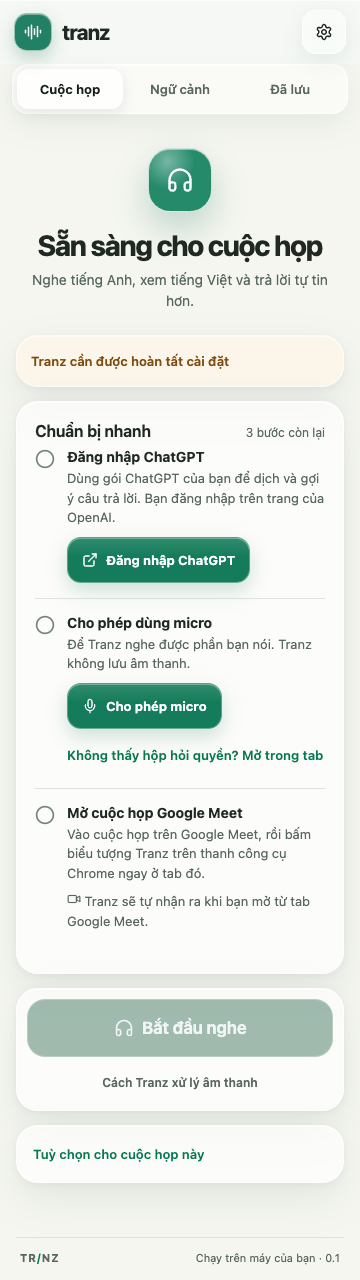
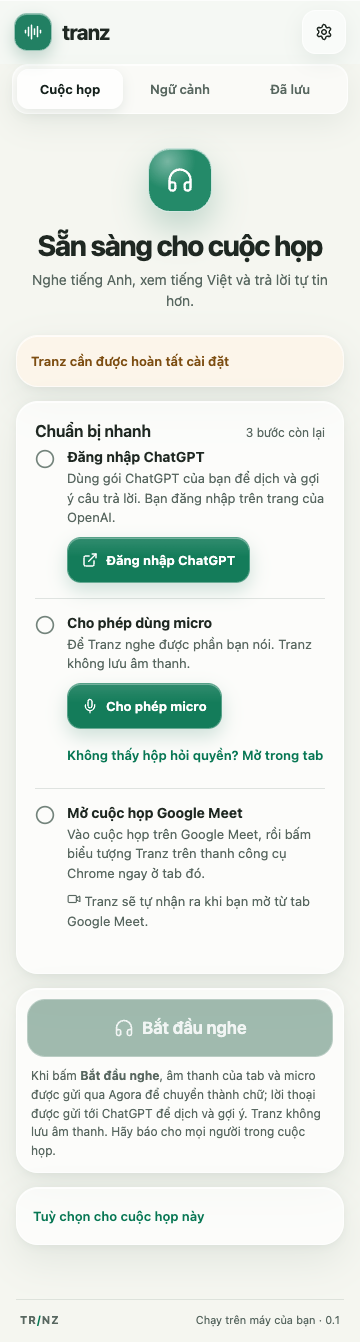
fix: keep the data-flow disclosure visible
Pressing "Bắt đầu nghe" is the consent (PR-004), so the explanation of
where tab and microphone audio go must not sit inside a collapsed
disclosure. The UI harness now checks it is visible and can run on
another port (TRANZ_VERIFY_PORT) when 4328 is in use.

diff --git a/apps/extension/src/views/Home.tsx b/apps/extension/src/views/Home.tsx
@@ -143,13 +143,11 @@ export function Home({
           {busy === 'start' ? 'Đang kết nối… (khoảng 10 giây)' : 'Bắt đầu nghe'}
         </button>
         {!isExtension && <p className="caption">Bản xem thử giao diện · Mở extension trong Chrome để nghe cuộc họp.</p>}
-        <details className="data-details">
-          <summary>Cách Tranz xử lý âm thanh</summary>
-          <p className="caption consent">
-            Khi bấm <strong>Bắt đầu nghe</strong>, âm thanh của tab và micro được gửi qua Agora để chuyển thành chữ; lời thoại được
-            gửi tới ChatGPT để dịch và gợi ý. Hãy báo cho mọi người trong cuộc họp. Tranz không lưu âm thanh.
-          </p>
-        </details>
+        {/* Pressing the button is the consent (PR-004), so this stays visible rather than collapsed. */}
+        <p className="caption consent">
+          Khi bấm <strong>Bắt đầu nghe</strong>, âm thanh của tab và micro được gửi qua Agora để chuyển thành chữ; lời thoại được gửi
+          tới ChatGPT để dịch và gợi ý. Tranz không lưu âm thanh. Hãy báo cho mọi người trong cuộc họp.
+        </p>
       </section>
 
       <details className="panel options">

diff --git a/apps/extension/src/style.css b/apps/extension/src/style.css
@@ -1518,23 +1518,8 @@ footer {
   border-radius: 14px;
 }
 
-.data-details {
-  margin-top: 7px;
-  text-align: center;
-}
-
-.data-details summary {
-  display: inline-flex;
-  align-items: center;
-  min-height: 36px;
-  padding: 0 8px;
-  color: var(--muted);
-  font-size: 12px;
-}
-
-.data-details p {
-  margin: 0 4px 8px;
-  text-align: left;
+.start-zone .consent {
+  margin: 10px 4px 2px;
 }
 
 .options {

diff --git a/docs/evidence/simple-ui.md b/docs/evidence/simple-ui.md
@@ -10,13 +10,13 @@ Ngày: 2026-09-29, cập nhật giao diện glass ngày 2026-09-30. Branch `feat
 - **Ngữ cảnh không bắt buộc** (mặc định "Cuộc họp nhanh"). Chọn ngữ cảnh và lưu phiên nằm trong "Tuỳ chọn cho cuộc họp này".
 - Cài đặt gọn lại: tài khoản ChatGPT, quyền riêng tư, "Thông tin kỹ thuật" thu gọn.
 - Panel không bao giờ trắng: nếu Tranz trên máy chưa chạy, panel hiện 3 bước khắc phục và nút Thử lại.
-- **Tinh giản glass:** header và điều hướng thành một dock kính mờ; màn hình chính chỉ còn biểu tượng, một lời hứa ngắn, trạng thái chuẩn bị và hành động chính. Chi tiết Agora và luồng dữ liệu được thu gọn nhưng vẫn truy cập được. Điều khiển phiên không bám dính để tránh che lời thoại khi cuộn.
+- **Tinh giản glass:** header và điều hướng thành một dock kính mờ; màn hình chính chỉ còn biểu tượng, một lời hứa ngắn, trạng thái chuẩn bị và hành động chính. Chi tiết cấu hình Agora được thu gọn; đoạn giải thích luồng dữ liệu luôn hiện ngay dưới nút Bắt đầu nghe (bấm nút là đồng ý, nên không được giấu). Điều khiển phiên không bám dính để tránh che lời thoại khi cuộn.
 - Glass có đường viền sáng, blur và độ sâu nhẹ; nội dung dài vẫn dùng nền sáng dễ đọc. Có fallback khi trình duyệt không hỗ trợ blur, `prefers-contrast: more` và `prefers-reduced-motion`.
 
 ## Kiểm chứng
 
 - `npm run verify`: 31/31 test (thêm: tự kết nối chỉ cho đúng origin extension; phiên không cần ngữ cảnh; regex thông báo tiếng Việt).
-- `npm run verify:ui`: 42/42 trên bản build unpacked sau thay đổi glass. Gồm: mở panel là tự kết nối, không có ô mật khẩu; checklist 3 bước; nút Bắt đầu nghe bị khoá đến khi AI, micro và Google Meet đều sẵn sàng; tạo ngữ cảnh; phiên mô phỏng bằng tiếng Việt; đăng nhập ChatGPT ngay từ checklist (với Codex giả lập, trang OpenAI chặn cục bộ); không tràn ngang ở 320–600 px; bàn phím; dialog xoá. Ảnh trong `simple-ui/`.
+- `npm run verify:ui`: 43/43 trên bản build unpacked sau thay đổi glass. Gồm: mở panel là tự kết nối, không có ô mật khẩu; checklist 3 bước; đoạn giải thích luồng dữ liệu hiện ngay dưới nút Bắt đầu nghe (không bị thu gọn); nút Bắt đầu nghe bị khoá đến khi AI, micro và Google Meet đều sẵn sàng; tạo ngữ cảnh; phiên mô phỏng bằng tiếng Việt; đăng nhập ChatGPT ngay từ checklist (với Codex giả lập, trang OpenAI chặn cục bộ); không tràn ngang ở 320–600 px; bàn phím; dialog xoá. Ảnh trong `simple-ui/`.
 - Backend thật của bạn đã khởi động lại với code mới; `/api/pair` từ chối mọi nguồn không phải extension.
 
 ## Giới hạn

diff --git a/DESIGN.md b/DESIGN.md
@@ -281,7 +281,7 @@ The first user review found the English, multi-step interface hard to use. The p
 - is written in Vietnamese (`lang="vi"`); transcript lines, suggested replies and practice phrases stay in English because they are the meeting's language;
 - connects to the local backend automatically; the only sign-in a person sees is ChatGPT;
 - opens on **Sẵn sàng cho cuộc họp**: a three-step checklist (Đăng nhập ChatGPT, Cho phép micro, Mở cuộc họp Google Meet) that collapses to “Mọi thứ đã sẵn sàng”, then one large **Bắt đầu nghe** button;
-- treats pressing **Bắt đầu nghe** as the explicit consent, with a short “Cách Tranz xử lý âm thanh” disclosure directly under the button (the separate consent checkbox was removed);
+- treats pressing **Bắt đầu nghe** as the explicit consent, with the data-flow disclosure always visible directly under the button (never collapsed, because the button press is the consent) (the separate consent checkbox was removed);
 - makes context optional (“Không dùng — Cuộc họp nhanh”) and moves context choice and keeping the session into a collapsed “Tuỳ chọn cho cuộc họp này”;
 - names live actions plainly: Tạm dừng/Tiếp tục, Dừng, Gợi ý câu trả lời, Tóm tắt vừa rồi, “Tôi muốn nói…”, Trả lời câu này; shows times in 24-hour Vietnamese format;
 - puts backend and provider details under a collapsed “Thông tin kỹ thuật” in Cài đặt.
@@ -289,6 +289,6 @@ The first user review found the English, multi-step interface hard to use. The p
 ## Liquid-glass refinement (implemented after user feedback, 2026-09-30)
 
 - The header and three destinations are combined visually into a quiet glass dock; the live controls remain in document flow so they never cover transcript content while scrolling.
-- The home screen uses one product symbol, one short promise, one compact setup card and one primary start action. Technical Agora configuration and the longer data-flow explanation stay available in collapsed disclosures.
+- The home screen uses one product symbol, one short promise, one compact setup card and one primary start action. Technical Agora configuration stays in a collapsed disclosure; the short data-flow disclosure under the start button stays visible because pressing the button is the consent (PR-004).
 - Glass is a material cue, not decoration: content surfaces keep readable light fills, semantic states keep text labels, and the interface has reduced-motion, increased-contrast and no-backdrop-filter fallbacks.
 - The responsive harness renders the unpacked extension at 320, 360, 400, 480 and 600 px; real side-panel, screen-reader and live-meeting validation remain pending.

diff --git a/TODOS.md b/TODOS.md
@@ -25,7 +25,7 @@ The user invoked the handoff prompt on 2026-09-29 and asked to continue Phases 0
 | 07 | Notes, keep/delete, restart recovery; PR #7 open | Real note quality; chunking over 60,000 characters deferred |
 | 08 | Runtime hardening, live Agora fixes (RTM subscribe, WASM CSP), docs, evidence, review guide; PR #8 open | AI provider gate; Google Meet; user review |
 | — | ChatGPT-plan provider (user request): PR #9 open; live eval 6/6 | You sign in with ChatGPT in the panel |
-| — | Simpler Vietnamese liquid-glass UI with automatic pairing (user review feedback): PR #10 open; Chromium harness 42/42 | Your review in the real side panel |
+| — | Simpler Vietnamese liquid-glass UI with automatic pairing (user review feedback): PR #10 open; Chromium harness 43/43 | Your review in the real side panel |
 | 09 | Not authorized | Requires separate approval |
 
 ## Authorized remaining implementation checklist

diff --git a/CHANGELOG.md b/CHANGELOG.md
@@ -21,7 +21,7 @@ Implementation candidate on stacked, unmerged pull requests #2–#8. Live Agora,
 ### Changed (after user review)
 
 - The side panel is in Vietnamese, connects to the local backend automatically (no access-token step) and opens on a three-step checklist with one **Bắt đầu nghe** button; context is optional.
-- The interface uses a calmer iOS-inspired liquid-glass system, with simpler setup copy, collapsed technical/privacy detail, glass navigation and controls, and opaque accessibility fallbacks.
+- The interface uses a calmer iOS-inspired liquid-glass system, with simpler setup copy, collapsed technical detail (the data-flow disclosure stays visible under the start button), glass navigation and controls, and opaque accessibility fallbacks.
 - Backend error messages are in Vietnamese.
 
 ### Added (ChatGPT plan)
